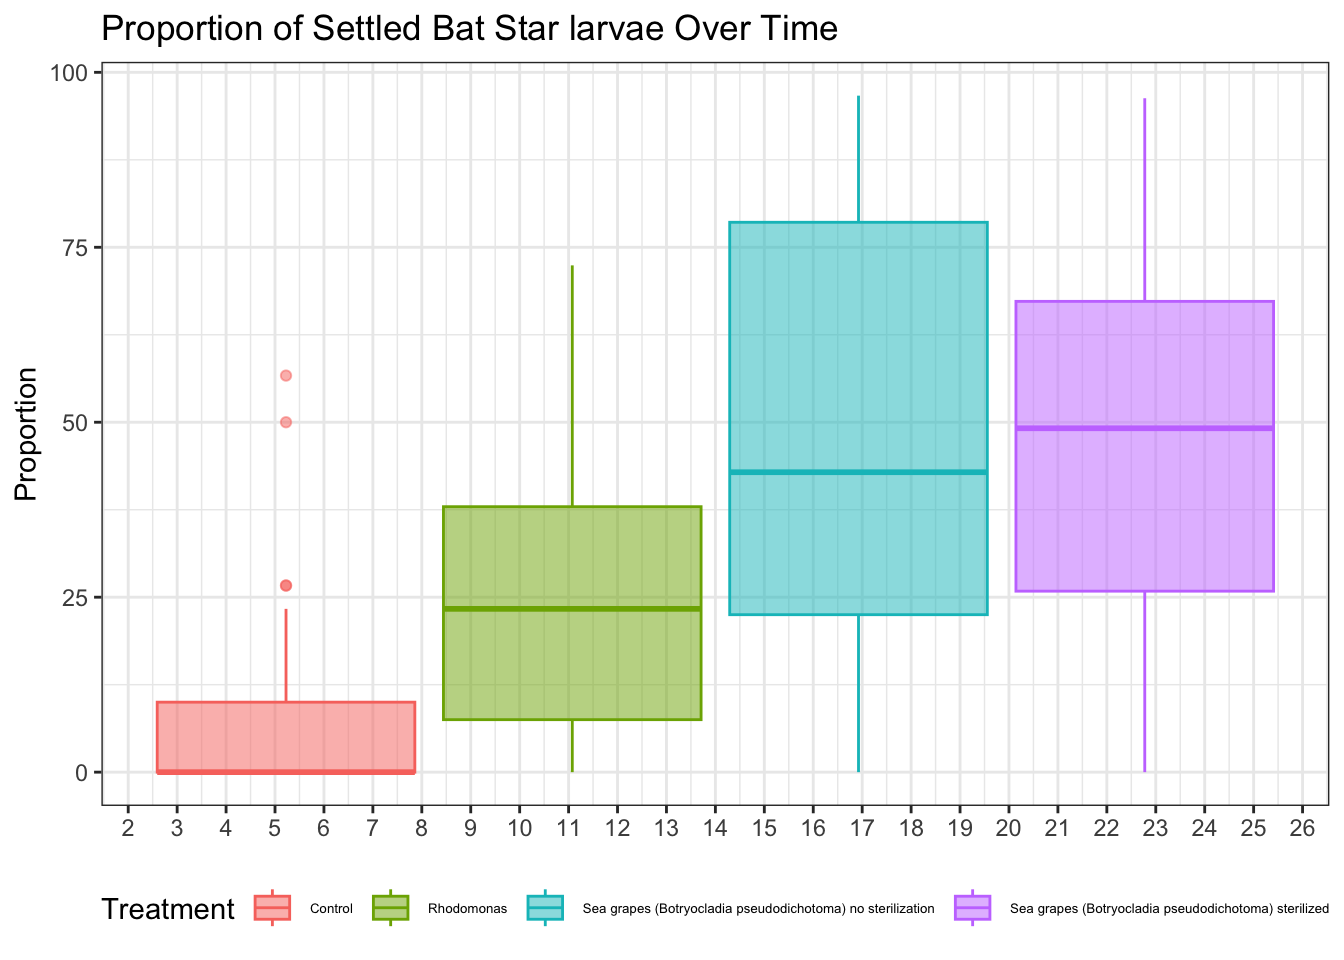
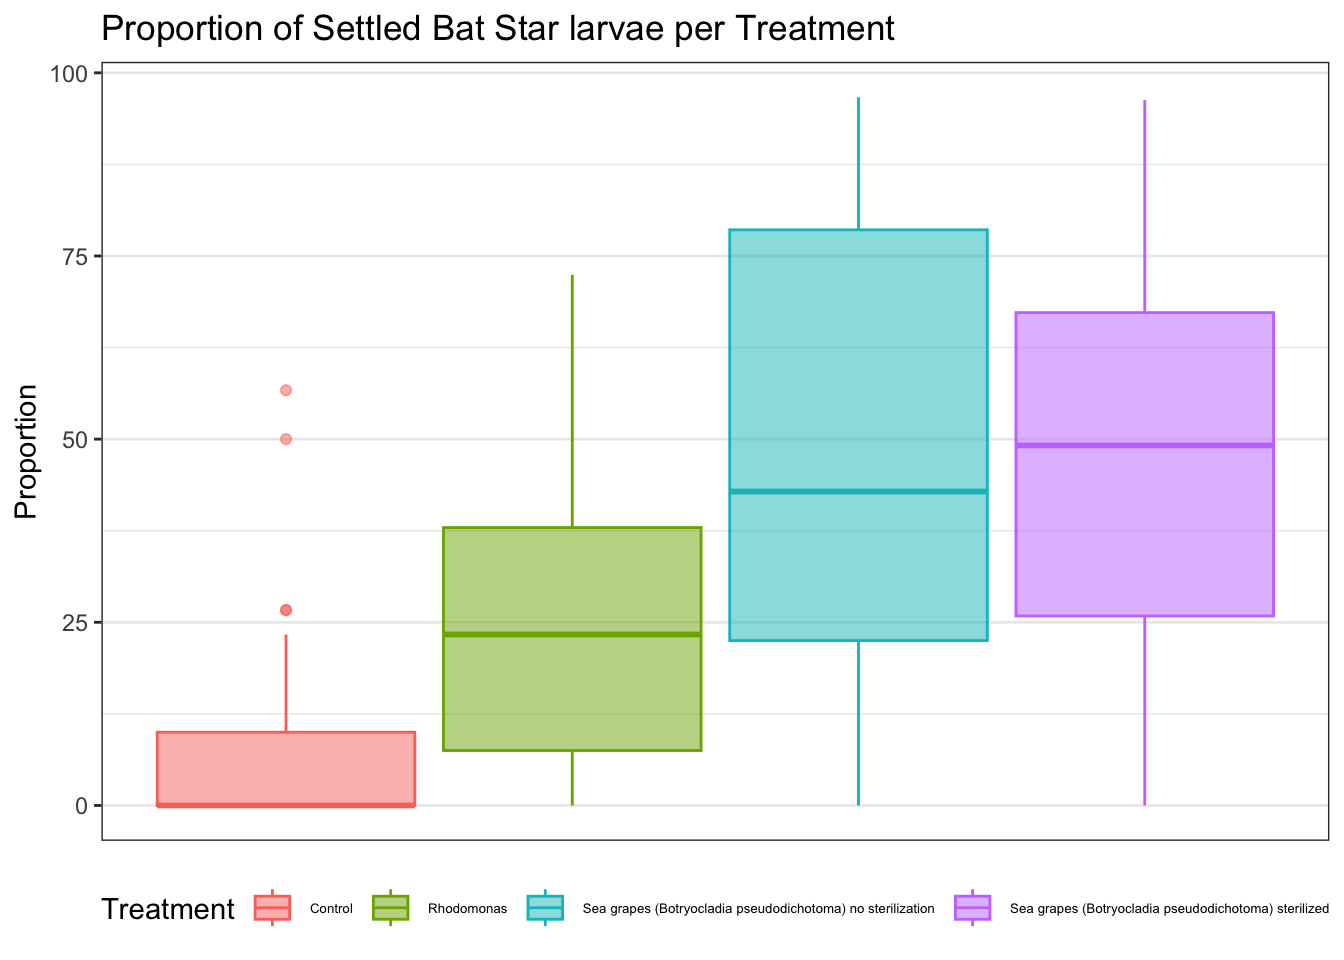
yaml

diff --git a/docs/portfolio.html b/docs/portfolio.html
@@ -8,7 +8,7 @@
 
 <meta name="author" content="Alondra Casas">
 
-<title>portfolio – alondra-casas-210portfolio</title>
+<title>Bat Star Larvae Settlement – alondra-casas-210portfolio</title>
 <style>
 code{white-space: pre-wrap;}
 span.smallcaps{font-variant: small-caps;}
@@ -20,41 +20,6 @@ ul.task-list li input[type="checkbox"] {
   width: 0.8em;
   margin: 0 0.8em 0.2em -1em; /* quarto-specific, see https://github.com/quarto-dev/quarto-cli/issues/4556 */ 
   vertical-align: middle;
-}
-/* CSS for syntax highlighting */
-html { -webkit-text-size-adjust: 100%; }
-pre > code.sourceCode { white-space: pre; position: relative; }
-pre > code.sourceCode > span { display: inline-block; line-height: 1.25; }
-pre > code.sourceCode > span:empty { height: 1.2em; }
-.sourceCode { overflow: visible; }
-code.sourceCode > span { color: inherit; text-decoration: inherit; }
-div.sourceCode { margin: 1em 0; }
-pre.sourceCode { margin: 0; }
-@media screen {
-div.sourceCode { overflow: auto; }
-}
-@media print {
-pre > code.sourceCode { white-space: pre-wrap; }
-pre > code.sourceCode > span { text-indent: -5em; padding-left: 5em; }
-}
-pre.numberSource code
-  { counter-reset: source-line 0; }
-pre.numberSource code > span
-  { position: relative; left: -4em; counter-increment: source-line; }
-pre.numberSource code > span > a:first-child::before
-  { content: counter(source-line);
-    position: relative; left: -1em; text-align: right; vertical-align: baseline;
-    border: none; display: inline-block;
-    -webkit-touch-callout: none; -webkit-user-select: none;
-    -khtml-user-select: none; -moz-user-select: none;
-    -ms-user-select: none; user-select: none;
-    padding: 0 4px; width: 4em;
-  }
-pre.numberSource { margin-left: 3em;  padding-left: 4px; }
-div.sourceCode
-  {   }
-@media screen {
-pre > code.sourceCode > span > a:first-child::before { text-decoration: underline; }
 }
 </style>
 
@@ -134,11 +99,11 @@ pre > code.sourceCode > span > a:first-child::before { text-decoration: underlin
   </li>  
   <li class="nav-item">
     <a class="nav-link" href="./about.html"> 
-<span class="menu-text">Bat Star Larvae Settlement Rates in Monterey</span></a>
+<span class="menu-text">About me</span></a>
   </li>  
   <li class="nav-item">
     <a class="nav-link active" href="./portfolio.html" aria-current="page"> 
-<span class="menu-text">portfolio</span></a>
+<span class="menu-text">Bat Star Larvae Settlement</span></a>
   </li>  
 </ul>
           </div> <!-- /navcollapse -->
@@ -159,7 +124,7 @@ pre > code.sourceCode > span > a:first-child::before { text-decoration: underlin
   <li><a href="#stat-210-portfolio" id="toc-stat-210-portfolio" class="nav-link active" data-scroll-target="#stat-210-portfolio">STAT 210 Portfolio</a></li>
   <li><a href="#part-1---describe-your-process" id="toc-part-1---describe-your-process" class="nav-link" data-scroll-target="#part-1---describe-your-process">Part 1 - Describe your Process</a></li>
   <li><a href="#data-description" id="toc-data-description" class="nav-link" data-scroll-target="#data-description">Data Description</a></li>
-  <li><a href="#data-visualization" id="toc-data-visualization" class="nav-link" data-scroll-target="#data-visualization">Data Visualization</a></li>
+  <li><a href="#data-cleaning" id="toc-data-cleaning" class="nav-link" data-scroll-target="#data-cleaning">Data Cleaning</a></li>
   </ul>
 </nav>
     </div>
@@ -168,7 +133,7 @@ pre > code.sourceCode > span > a:first-child::before { text-decoration: underlin
 
 <header id="title-block-header" class="quarto-title-block default">
 <div class="quarto-title">
-<h1 class="title">portfolio</h1>
+<h1 class="title">Bat Star Larvae Settlement</h1>
 </div>
 
 
@@ -201,14 +166,9 @@ pre > code.sourceCode > span > a:first-child::before { text-decoration: underlin
 <h1>Data Description</h1>
 <p>This is a data set of larval settlement of bat stars (<em>Patiria miniata</em>) over time. This data set is from my personal research project that I’ve been doing over the past few months. My proposed research question is “How does the substrate type affect the rate of <em>Patiria miniata</em> larvae settlement over time? This data set is a table of variables such as date, counts of settled stars and larvae, the container numbers and the corresponding treatments they’re in. This data comes from my personal project so I’m the source and some cleaning I would like to do is filter for when larvae is greater than one, mutate the date column, add an”experiment date” column to show trend over days, and maybe adding proportions.</p>
 </section>
-<section id="data-visualization" class="level1">
-<h1>Data Visualization</h1>
-<p>I want my final visualizations to consist of bar plots and do plots to show proportion of settled stars over time.</p>
-<ol type="1">
-<li><p>I want to highlight the average amount/ total amount of stars that settled over time.</p></li>
-<li><p>I plan to answer these questions by making visualizations to show the proportion of categories such as gender and season.</p></li>
-<li><p>I think a column of proportions would make the data easier to work with.</p></li>
-</ol>
+<section id="data-cleaning" class="level1">
+<h1>Data Cleaning</h1>
+<p>During the data cleaning process I filtered for when the larvae is greater than one because I didn’t want any zeros in my visualization skewing the plots. Then I added a column called “Status” to show the exact counts of larvae and settled stars for each container each day. I then added a column to calculate proportion to see the rate of settlement over time.</p>
 <p>You can add options to executable code like this</p>
 <div class="cell">
 <div class="cell-output cell-output-stderr">
@@ -225,7 +185,6 @@ pre > code.sourceCode > span > a:first-child::before { text-decoration: underlin
 </div>
 </div>
 <div class="cell">
-<div class="code-copy-outer-scaffold"><div class="sourceCode cell-code" id="cb2"><pre class="sourceCode r code-with-copy"><code class="sourceCode r"><span id="cb2-1"><a href="#cb2-1" aria-hidden="true" tabindex="-1"></a>star <span class="ot">&lt;-</span> <span class="fu">read_csv</span>(<span class="st">"data-raw/Casas Bat star Project Data - Sheet1.csv"</span>)</span></code></pre></div><button title="Copy to Clipboard" class="code-copy-button"><i class="bi"></i></button></div>
 <div class="cell-output cell-output-stderr">
 <pre><code>Rows: 216 Columns: 6
 ── Column specification ────────────────────────────────────────────────────────
@@ -238,38 +197,6 @@ dbl (4): Container, Larvae, Settled, Day
 </div>
 </div>
 <div class="cell">
-<div class="code-copy-outer-scaffold"><div class="sourceCode cell-code" id="cb4"><pre class="sourceCode r code-with-copy"><code class="sourceCode r"><span id="cb4-1"><a href="#cb4-1" aria-hidden="true" tabindex="-1"></a><span class="co">#filtering for when larvae is at least 1 because I want to try running statistics and it doesn't like zeros, also might just make the graph look better</span></span>
-<span id="cb4-2"><a href="#cb4-2" aria-hidden="true" tabindex="-1"></a>star_clean <span class="ot">&lt;-</span> star <span class="sc">|&gt;</span></span>
-<span id="cb4-3"><a href="#cb4-3" aria-hidden="true" tabindex="-1"></a>  <span class="fu">filter</span>(Larvae <span class="sc">&gt;=</span> <span class="dv">1</span>)</span>
-<span id="cb4-4"><a href="#cb4-4" aria-hidden="true" tabindex="-1"></a></span>
-<span id="cb4-5"><a href="#cb4-5" aria-hidden="true" tabindex="-1"></a><span class="co">#making a column for status to label each container for each day with the exact counts of larvae and settled stars</span></span>
-<span id="cb4-6"><a href="#cb4-6" aria-hidden="true" tabindex="-1"></a>star_clean2 <span class="ot">&lt;-</span> star_clean <span class="sc">|&gt;</span></span>
-<span id="cb4-7"><a href="#cb4-7" aria-hidden="true" tabindex="-1"></a>    <span class="fu">pivot_longer</span>(<span class="at">cols =</span> <span class="fu">c</span>(Larvae, Settled), </span>
-<span id="cb4-8"><a href="#cb4-8" aria-hidden="true" tabindex="-1"></a>               <span class="at">names_to =</span> <span class="st">"Status"</span>, </span>
-<span id="cb4-9"><a href="#cb4-9" aria-hidden="true" tabindex="-1"></a>               <span class="at">values_to =</span> <span class="st">"Count"</span>)</span>
-<span id="cb4-10"><a href="#cb4-10" aria-hidden="true" tabindex="-1"></a></span>
-<span id="cb4-11"><a href="#cb4-11" aria-hidden="true" tabindex="-1"></a><span class="co">#adding proportion to show a more distinct change in settlement rate</span></span>
-<span id="cb4-12"><a href="#cb4-12" aria-hidden="true" tabindex="-1"></a>starclean3 <span class="ot">&lt;-</span> star_clean <span class="sc">|&gt;</span></span>
-<span id="cb4-13"><a href="#cb4-13" aria-hidden="true" tabindex="-1"></a>  <span class="fu">mutate</span>( <span class="at">Total =</span> Larvae <span class="sc">+</span> Settled,</span>
-<span id="cb4-14"><a href="#cb4-14" aria-hidden="true" tabindex="-1"></a>          <span class="at">propsettled =</span> (Settled <span class="sc">/</span> Total)<span class="sc">*</span> <span class="dv">100</span>)</span></code></pre></div><button title="Copy to Clipboard" class="code-copy-button"><i class="bi"></i></button></div>
-</div>
-<div class="cell">
-<div class="code-copy-outer-scaffold"><div class="sourceCode cell-code" id="cb5"><pre class="sourceCode r code-with-copy"><code class="sourceCode r"><span id="cb5-1"><a href="#cb5-1" aria-hidden="true" tabindex="-1"></a><span class="fu">write_csv</span>(star_clean, <span class="st">"data-clean/star_clean.csv"</span>)</span>
-<span id="cb5-2"><a href="#cb5-2" aria-hidden="true" tabindex="-1"></a><span class="fu">write_csv</span>(star_clean2, <span class="st">"data-clean/star_clean2.csv"</span>)</span>
-<span id="cb5-3"><a href="#cb5-3" aria-hidden="true" tabindex="-1"></a><span class="fu">write_csv</span>(starclean3, <span class="st">"data-clean/starclean3.csv"</span>)</span></code></pre></div><button title="Copy to Clipboard" class="code-copy-button"><i class="bi"></i></button></div>
-</div>
-<div class="cell">
-<div class="code-copy-outer-scaffold"><div class="sourceCode cell-code" id="cb6"><pre class="sourceCode r code-with-copy"><code class="sourceCode r"><span id="cb6-1"><a href="#cb6-1" aria-hidden="true" tabindex="-1"></a>star <span class="sc">|&gt;</span></span>
-<span id="cb6-2"><a href="#cb6-2" aria-hidden="true" tabindex="-1"></a>  <span class="fu">ggplot</span>(<span class="fu">aes</span>(<span class="at">x =</span> Day, <span class="at">y =</span> Settled, <span class="at">color =</span> Treatment)) <span class="sc">+</span></span>
-<span id="cb6-3"><a href="#cb6-3" aria-hidden="true" tabindex="-1"></a>  <span class="fu">geom_point</span>(<span class="at">size =</span> <span class="fl">0.5</span>) <span class="sc">+</span></span>
-<span id="cb6-4"><a href="#cb6-4" aria-hidden="true" tabindex="-1"></a>  <span class="fu">geom_smooth</span>() <span class="sc">+</span></span>
-<span id="cb6-5"><a href="#cb6-5" aria-hidden="true" tabindex="-1"></a>  <span class="fu">scale_x_continuous</span>(<span class="at">breaks =</span> <span class="dv">1</span><span class="sc">:</span><span class="dv">27</span>) <span class="sc">+</span></span>
-<span id="cb6-6"><a href="#cb6-6" aria-hidden="true" tabindex="-1"></a>  <span class="fu">labs</span>(<span class="at">title =</span> <span class="st">"Number of settled larvae over time"</span>, </span>
-<span id="cb6-7"><a href="#cb6-7" aria-hidden="true" tabindex="-1"></a>       <span class="at">x =</span> <span class="st">"Days"</span>,</span>
-<span id="cb6-8"><a href="#cb6-8" aria-hidden="true" tabindex="-1"></a>       <span class="at">y =</span> <span class="st">"Number of settled larvae"</span>,</span>
-<span id="cb6-9"><a href="#cb6-9" aria-hidden="true" tabindex="-1"></a>       <span class="at">color =</span> <span class="st">"Treatment"</span>) <span class="sc">+</span></span>
-<span id="cb6-10"><a href="#cb6-10" aria-hidden="true" tabindex="-1"></a>  <span class="fu">theme_bw</span>() <span class="sc">+</span></span>
-<span id="cb6-11"><a href="#cb6-11" aria-hidden="true" tabindex="-1"></a>  <span class="fu">theme</span>(<span class="at">legend.position =</span> <span class="st">"bottom"</span>) </span></code></pre></div><button title="Copy to Clipboard" class="code-copy-button"><i class="bi"></i></button></div>
 <div class="cell-output cell-output-stderr">
 <pre><code>`geom_smooth()` using method = 'loess' and formula = 'y ~ x'</code></pre>
 </div>
@@ -282,26 +209,11 @@ dbl (4): Container, Larvae, Settled, Day
 </div>
 </div>
 <div class="cell">
-<div class="code-copy-outer-scaffold"><div class="sourceCode cell-code" id="cb8"><pre class="sourceCode r code-with-copy"><code class="sourceCode r"><span id="cb8-1"><a href="#cb8-1" aria-hidden="true" tabindex="-1"></a>starclean3 <span class="sc">|&gt;</span></span>
-<span id="cb8-2"><a href="#cb8-2" aria-hidden="true" tabindex="-1"></a>  <span class="fu">ggplot</span>(<span class="fu">aes</span>(<span class="at">x =</span> Day, <span class="at">y =</span> propsettled, <span class="at">color =</span> Treatment, <span class="at">fill =</span> Treatment, ), <span class="at">colors =</span><span class="st">"virdis"</span>) <span class="sc">+</span></span>
-<span id="cb8-3"><a href="#cb8-3" aria-hidden="true" tabindex="-1"></a>  <span class="fu">geom_boxplot</span>(<span class="at">alpha =</span> <span class="fl">0.5</span>) <span class="sc">+</span></span>
-<span id="cb8-4"><a href="#cb8-4" aria-hidden="true" tabindex="-1"></a>  <span class="fu">scale_x_continuous</span>(<span class="at">breaks =</span> <span class="dv">1</span><span class="sc">:</span><span class="dv">27</span>) <span class="sc">+</span></span>
-<span id="cb8-5"><a href="#cb8-5" aria-hidden="true" tabindex="-1"></a>  <span class="fu">labs</span>(<span class="at">title =</span> <span class="st">"Proportion of Settled Bat Star larvae Over Time"</span>, </span>
-<span id="cb8-6"><a href="#cb8-6" aria-hidden="true" tabindex="-1"></a>       <span class="at">x =</span> <span class="cn">NULL</span>,</span>
-<span id="cb8-7"><a href="#cb8-7" aria-hidden="true" tabindex="-1"></a>       <span class="at">y =</span> <span class="st">"Proportion"</span>,</span>
-<span id="cb8-8"><a href="#cb8-8" aria-hidden="true" tabindex="-1"></a>       <span class="at">color =</span> <span class="st">"Treatment"</span>) <span class="sc">+</span></span>
-<span id="cb8-9"><a href="#cb8-9" aria-hidden="true" tabindex="-1"></a>  <span class="fu">theme_bw</span>() <span class="sc">+</span></span>
-<span id="cb8-10"><a href="#cb8-10" aria-hidden="true" tabindex="-1"></a>  <span class="fu">theme</span>(<span class="at">legend.position =</span> <span class="st">"bottom"</span>)<span class="sc">+</span></span>
-<span id="cb8-11"><a href="#cb8-11" aria-hidden="true" tabindex="-1"></a>  <span class="fu">theme</span>(<span class="at">legend.text =</span> <span class="fu">element_text</span>(<span class="at">size =</span> <span class="dv">5</span>))</span></code></pre></div><button title="Copy to Clipboard" class="code-copy-button"><i class="bi"></i></button></div>
 <div class="cell-output cell-output-stderr">
 <pre><code>Warning in fortify(data, ...): Arguments in `...` must be used.
 ✖ Problematic argument:
 • colors = "virdis"
 ℹ Did you misspell an argument name?</code></pre>
-</div>
-<div class="cell-output cell-output-stderr">
-<pre><code>Warning: Orientation is not uniquely specified when both the x and y aesthetics are
-continuous. Picking default orientation 'x'.</code></pre>
 </div>
 <div class="cell-output-display">
 <div>

diff --git a/docs/about.html b/docs/about.html
@@ -98,11 +98,11 @@ ul.task-list li input[type="checkbox"] {
   </li>  
   <li class="nav-item">
     <a class="nav-link active" href="./about.html" aria-current="page"> 
-<span class="menu-text">Bat Star Larvae Settlement Rates in Monterey</span></a>
+<span class="menu-text">About me</span></a>
   </li>  
   <li class="nav-item">
     <a class="nav-link" href="./portfolio.html"> 
-<span class="menu-text">portfolio</span></a>
+<span class="menu-text">Bat Star Larvae Settlement</span></a>
   </li>  
 </ul>
           </div> <!-- /navcollapse -->

diff --git a/docs/index.html b/docs/index.html
@@ -97,11 +97,11 @@ ul.task-list li input[type="checkbox"] {
   </li>  
   <li class="nav-item">
     <a class="nav-link" href="./about.html"> 
-<span class="menu-text">Bat Star Larvae Settlement Rates in Monterey</span></a>
+<span class="menu-text">About me</span></a>
   </li>  
   <li class="nav-item">
     <a class="nav-link" href="./portfolio.html"> 
-<span class="menu-text">portfolio</span></a>
+<span class="menu-text">Bat Star Larvae Settlement</span></a>
   </li>  
 </ul>
           </div> <!-- /navcollapse -->